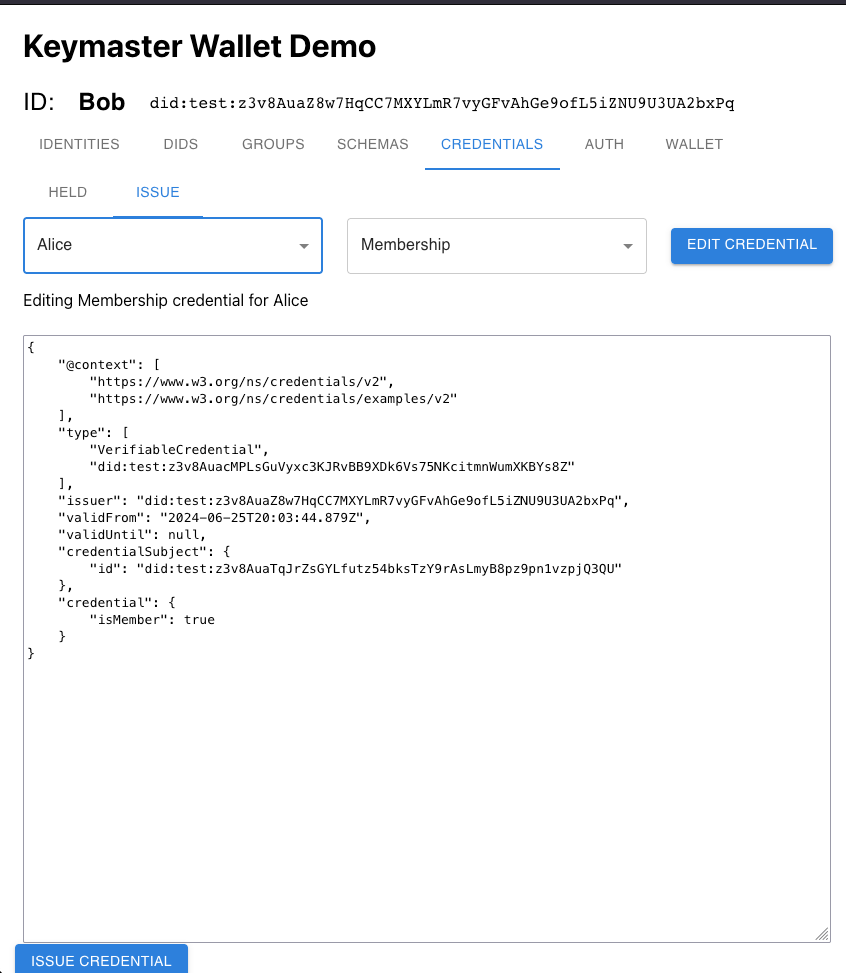
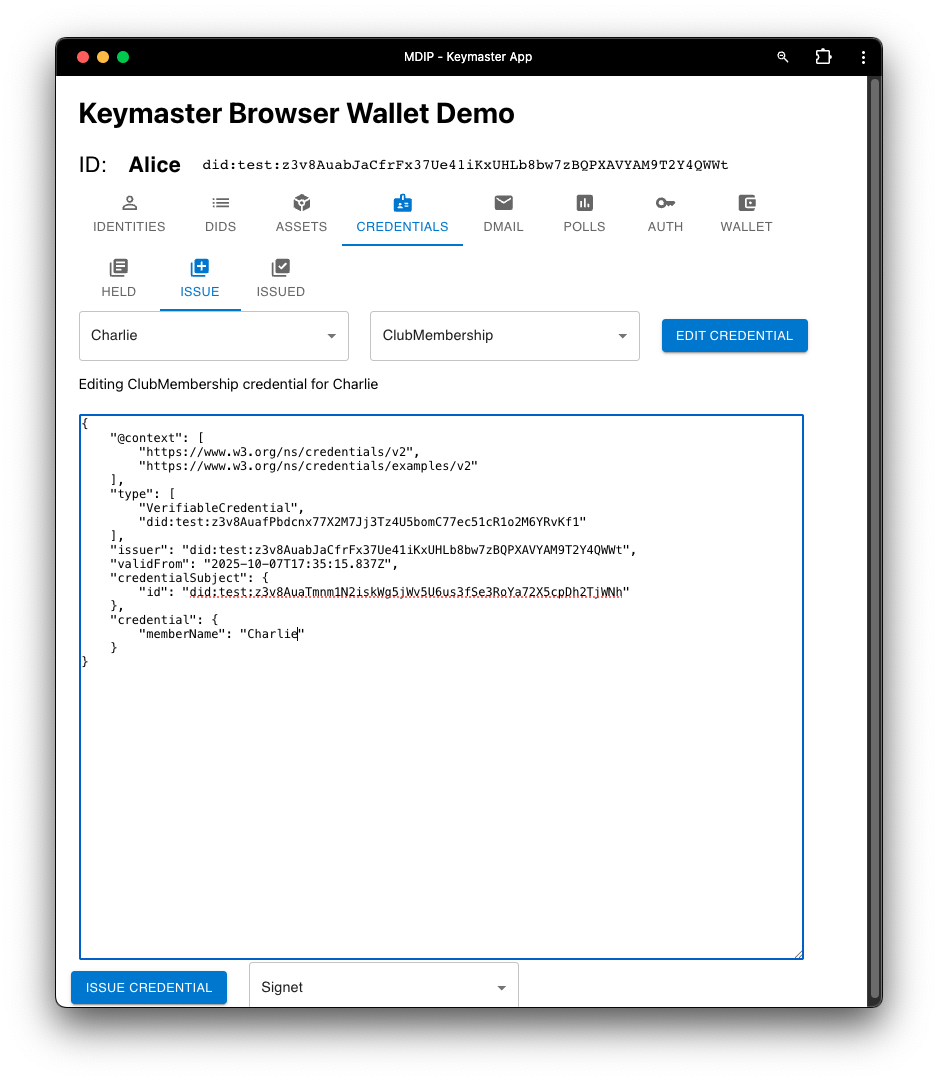
docs: Updating webui docs to MDIP 1.3  (#1051)
* doc: remove betw experimental warnings

* doc: updating webui documentation

* Update doc/03-clients/02-webui/07-dmail.md

---------

diff --git a/doc/03-clients/02-webui/02-first-did.md b/doc/03-clients/02-webui/02-first-did.md
@@ -1,24 +1,23 @@
 ---
 title: Creating your first DID
-experimental: true
 sidebar_label: 'Your First DID'
 author: Christian
 ---
 
-The first time you visit https://mdip.keychain.org/, your browser will automatically generate a new MDIP Wallet. The keys and all information contained in an MDIP wallet are only available on the client-side. The screen below shows a blank MDIP wallet:
+When operating a local MDIP node, you can visit http://localhost:4224 to automatically generate a new MDIP Wallet. The keys and all information contained in an MDIP wallet are only available on the client-side. The screen below shows a blank MDIP wallet:
 
 ![New MDIP Keymaster Wallet](new-wallet.png)
 
-An MDIP wallet may contain multiple Agent DIDs, or identities. Each DID can be registered on a registry of the user's choice. Local-only and Hyperswarm global DID distribution are available, along with an upcoming list of immutable ledgers like Bitcoin and many others.
+An MDIP wallet may contain multiple Agent DIDs, or identities. Each DID can be registered on a registry of the user's choice. 
 
 ![Bob DID](bob-did.png)
 
-The MDIP Wallet above now contains 1 Agent DID nicknamed "Bob". Once a DID is created, numerous new Keymaster wallet functions become available:
+The MDIP Wallet above now contains an Agent DID nicknamed "Bob". Once a DID is created, numerous new Keymaster wallet functions become available:
 
-1. [IDENTITIES](./identities): Users can create new Agent DIDs, backup/recover and/or remove undesired Identities.
-1. [DIDS](./dids): Users can manage nicknames to known DIDs. Can be used to name any type of DIDs (agent, asset, groups, etc).
-1. [GROUPS](./groups): Manage groups of DIDs. Create groups of any types of DIDs. Note: Groups are public.
-1. [SCHEMAS](./schema): Manage JSON schemas to be used for attesting credentials. Note: Schemas are public and reusable.
-1. [CREDENTIALS](./credentials): Users can issue credential schemas to an agent DID, and accept credentials with the option to view & decrypt prior to acceptance.
-1. [AUTH](./auth): Create and/or respond to MDIP authentication challenges. The web UI only supports DID validation at this time.
-1. [WALLET](./wallet): Wallet-level backup and restore methods. Seen phrase, upload/download, or in-network backups are available.
+1. [IDENTITIES](./identities): Create and manage new Agent DIDs.
+1. [DIDS](./dids): Manage nicknames to known DIDs. Can be used to name any type of DIDs (agent, asset, groups, etc).
+1. [ASSETS](./assets): Create and manage asset DIDs.
+1. [CREDENTIALS](./credentials): Users can issue and manage their verifiable credentials.
+1. [DMAIL](./dmail): Create and manage P2P messages with other Agent DIDs.
+1. [AUTH](./auth): Create and/or respond to MDIP authentication challenges.
+1. [WALLET](./wallet): Wallet-level functions, seed phrase, backup and restore methods. 

diff --git a/doc/03-clients/02-webui/06-credentials.md b/doc/03-clients/02-webui/06-credentials.md
@@ -1,18 +1,22 @@
 ---
 title: Credentials
-experimental: true
-author: Christian
 ---
 
-The Credentials screen allows a user to decrypt, accept, or issue verifiable credentials. Users must register  a schema on the MDIP network, or select an existing schema's DID, before a credential can be issued.
+The Credentials screen allows a user to accept and issue fully P2P Verifiable Credentials. Users must first register a schema on the MDIP network, or select an existing schema DID, before a credential can be issued.
 
-The credential's subjects are listed from known Agent DIDs contained in the wallet (from the [IDENTITIES](./identities) and [DIDS](./dids) screens).
+The credential subjects are listed from known Agent DIDs contained in the wallet (from the [IDENTITIES](./identities) and [DIDS](./dids) screens).
 
 ![Credentials screen](credentials-screen.png)
 
-The credential screen also allows the issuing user to fill in the credential with recipient-specific content. The credential below attests Bob's membership to Alice:
+The credential screen also allows the issuing user to fill in the credential with recipient-specific content. In the credential Alice creates a VC that attests a memberName to Charlie's Agent DID.
 
 ![Issue Credential](issue-credential.png)
+
+## ISSUED Screen
+
+In the "ISSUED" Credentials screen, a user can manage the VCs they issued.
+
+![Issued Credentials](issued-credentials.png)
 
 ## HELD Screen
 
@@ -32,6 +36,6 @@ In the "HELD" Credentials screen, a user can chose from a variety of options:
 
 - **Unpublish**: This removes the credential from a DID manifest. Note: other nodes on the network may retain the *history* of a DID; once published or revealed a credential has been winessed by other nodes.
 
-The image below shows a portion of Bob's Agent DID with a revealed "isMember: true" credential in the visible portion of his DID document:
+The image below shows a portion of Alice's Agent DID with a revealed membership Verifiable Credential in the Manifest section of her DID document:
 
 ![revealed membership](revealed-membership.png)

diff --git a/doc/03-clients/02-webui/05-assets.md b/doc/03-clients/02-webui/05-assets.md
@@ -1,0 +1,35 @@
+---
+title: Assets
+---
+
+The Assets screen allows a user to create and manage multiple types of digital assets.
+
+## SCHEMAS Screen
+
+In the Schemas screen, users can create their own Verifiable Credential schemas or access schemas created and registered on MDIP by other users. Here, Alice creates a "ClubMembership" schema containing a "memberName".
+
+![SCHEMAS screen](schema-screen.png)
+
+## GROUPS Screen
+
+Here, users can group DIDs together, under a new Group DID. Groups can contain groups. Groups are public documents, which means other network nodes will see the DIDs contained in a group DID. 
+
+![GROUPS screen](groups-screen.png)
+
+## IMAGES Screen
+
+This screen allows users to assign an Asset DID to an image file. The file is uploaded to the node's content addressable storage subsystem (IPFS).
+
+![IMAGES screen](images-screen.png)
+
+## DOCUMENTS Screen
+
+This screen allows users to assign an Asset DID to a document. The file is "notarized" on the registry selected by the user.
+
+![DOCUMENTS Screen](document-screen.png)
+
+## VAULTS Screen
+
+Create encrypted vaults that can contain any number of digital items and any number of recipient members. Read access to the Vault may be shared with Member DIDs. 
+
+![VAULTS Screen](vault-screen.png)

diff --git a/doc/03-clients/02-webui/README.md b/doc/03-clients/02-webui/README.md
@@ -1,18 +1,15 @@
 ---
 title: MDIP Keymaster WebUI
-experimental: true
 sidebar_label: Tutorial
-author: Christian
 pagination_prev: null
 ---
 
-This section contains basic instructions to familiarize you with the use of MDIP's Keymaster web UI.
+This section contains basic instructions to familiarize you with the use of MDIP's Keymaster WebUI.
 
-The Keymaster WebUI is a client interface to the MDIP Keymaster library<!--Add link when library docs are written-->, available in the [`kc` repository](https://github.com/keychainMDIP/kc). The web UI is not intended to be a commercial wallet; it is a reference implementation of an MDIP wallet offering a web (React) user interface.
+The Keymaster WebUI is a client interface to the MDIP Keymaster library. The web UI is not intended to be a commercial wallet; it is a reference implementation of an MDIP wallet offering a web (React) user interface.
 
 Wallet creation and MDIP key operations are performed client-side. The server-side is running an MDIP Gatekeeper server, which exposes the Keymaster WebUI server components on port `4224`.
 
-An online version of the MDIP Keymaster WebUI is available here: https://mdip.keychain.org/
-
+When operating a local MDIP node, the MDIP Keymaster WebUI is available at http://localhost:4224/ 
 
 

diff --git a/doc/03-clients/02-webui/03-identities.md b/doc/03-clients/02-webui/03-identities.md
@@ -1,8 +1,6 @@
 ---
 title: Identities
-experimental: true
 sidebar_label: Identities
-author: Christian
 ---
 
 ![Identities screen](identities-screen.png)
@@ -10,8 +8,10 @@ author: Christian
 This screen offers the following functionality:
 
 1. CREATE: Creates a new agent DID and registers the document to the user-selected registry.
+1. RENAME: Rename the current agent DID nickname label.
 1. REMOVE: Removes an agent DID from the user's local wallet.
 1. BACKUP: Backup an agent DID to an encrypted DID Vault. Recovery is later possible using only wallet keys & a DID identifier.
 1. RECOVER: Recovers an Agent DID from its DID Identifier. This will recover the latest Agent DID backup stored in the encrypted DID Vault.
+1. ROTATE KEYS: Generates a new keypair for the DID and rotate key version in DID Document. 
 
 ![Two identities](two-identities.png)

diff --git a/doc/03-clients/01-cli/02-wallets.md b/doc/03-clients/01-cli/02-wallets.md
@@ -4,11 +4,6 @@ sidebar_label: Wallets
 slug: wallets
 ---
 
-> [!WARNING]
-> The Keychain CLI wallet is only to be used for experimental and development purposes.
->
-> The Keychain CLI wallet is not encrypted and is stored on the local user's file system. Future MDIP wallets will implement additional capabilities (ex: SIWYS). 3rd party wallet developers will also be invited to create MDIP-compatible user wallet implementations.
-
 ## What is a Wallet?
 
 The wallet contains a user's private data, including secret keys and associated DIDs. The Keychain-CLI wallet also includes a user's locally named alias for each identity DID.

diff --git a/doc/03-clients/02-webui/09-auth.md b/doc/03-clients/02-webui/09-auth.md
@@ -1,7 +1,5 @@
 ---
 title: Authentication
-experimental: true
-author: Christian
 ---
 
 The Authentication screen allows a user to issue and/or respond to MDIP challenges. A challenge DID is entered (or generated) to the **Challenge** text field; a user can create a Response DID to the provided challenge. The response to a challenge will prove to the challenger that the responder conrols the private keys of a particular DID.

diff --git a/doc/03-clients/02-webui/10-wallet.md b/doc/03-clients/02-webui/10-wallet.md
@@ -1,10 +1,10 @@
 ---
 title: Wallet
-experimental: true
-author: Christian
 ---
 
-The Wallet screen allows a user to backup their wallet. Three different backup / restore paths are provided:
+The Wallet screen allows a user to backup their wallet. 
+
+Three different backup / restore paths are provided:
 
 - Download / Upload of a wallet to / from local storage.
 - Recover a wallet's keys from a 12-words mnemonic.

diff --git a/doc/03-clients/02-webui/07-dmail.md b/doc/03-clients/02-webui/07-dmail.md
@@ -1,0 +1,7 @@
+---
+title: DMail
+---
+
+DMail is a full-featured end-to-end encrypted P2P messaging system built using MDIP DIDs and GroupVaults. 
+
+![DMAIL screen](dmail-screen.png)

diff --git a/doc/03-clients/01-cli/07-challenge-responses.md b/doc/03-clients/01-cli/07-challenge-responses.md
@@ -1,6 +1,5 @@
 ---
 title: Working with Challenges and Responses
-experimental: true
 sidebar_label: Challenges and Responses
 slug: challenge-responses
 ---

diff --git a/doc/03-clients/03-chrome/README.md b/doc/03-clients/03-chrome/README.md
@@ -1,6 +1,5 @@
 ---
 title: MDIP Chrome Browser Extension
-experimental: true
 sidebar_label: Chrome Extension
 pagination_prev: null
 ---

diff --git a/doc/03-clients/01-cli/08-aliased-names.md b/doc/03-clients/01-cli/08-aliased-names.md
@@ -1,6 +1,5 @@
 ---
 title: Working with Aliased Names
-experimental: true
 sidebar_label: Aliased Names
 slug: aliased-names
 ---
